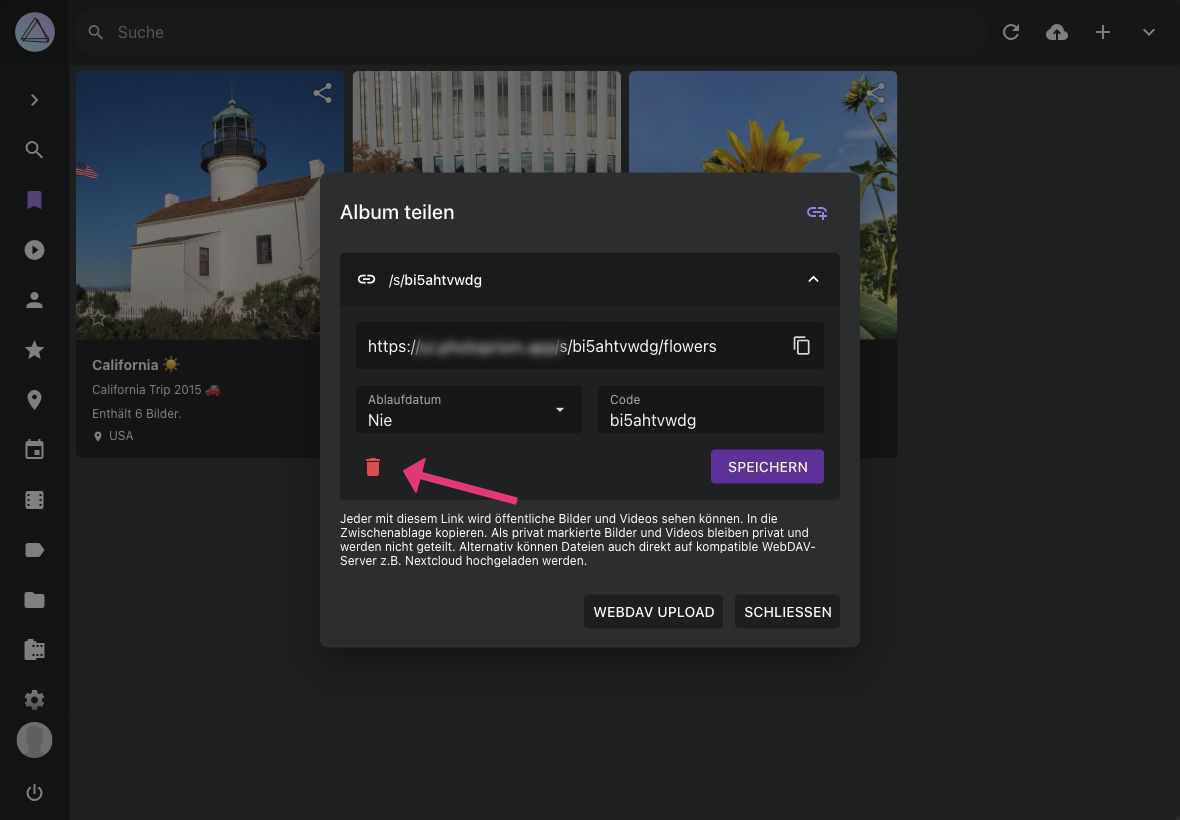
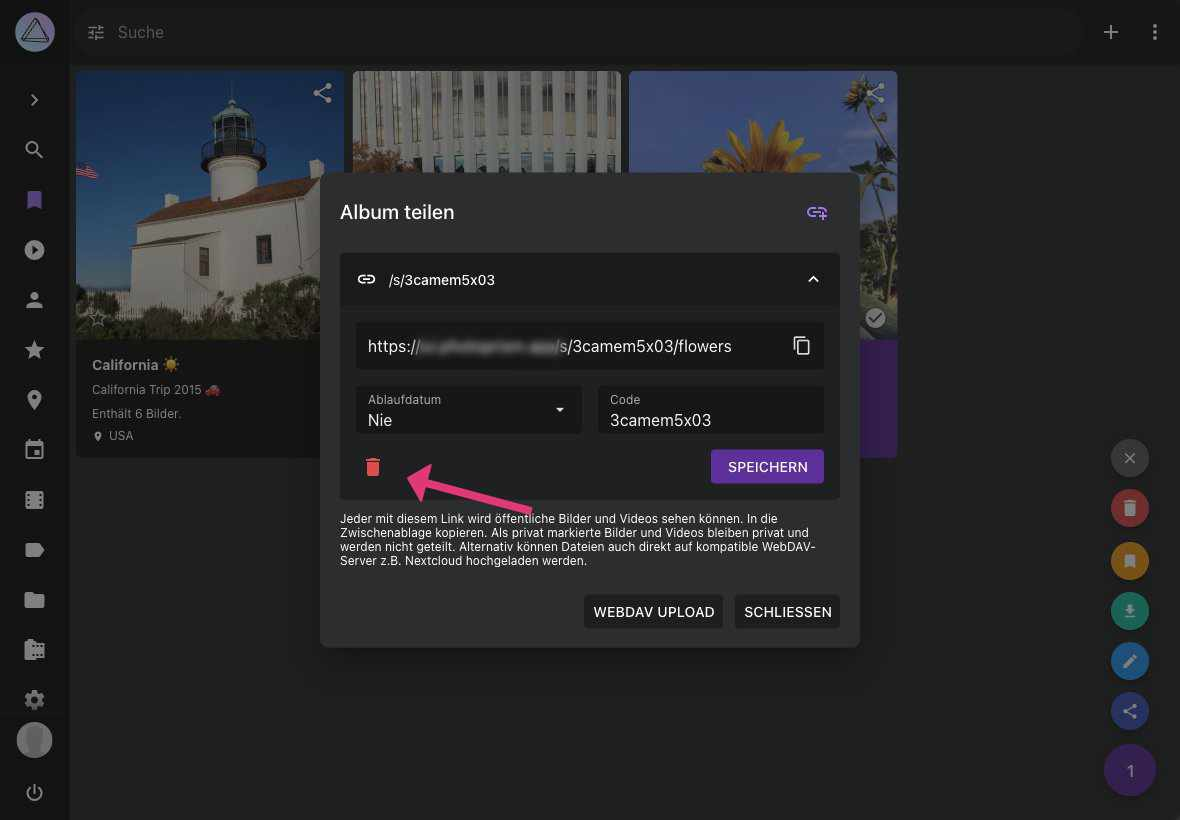
User Guide: Update screenshots in share.md

diff --git a/docs/user-guide/share/share.md b/docs/user-guide/share/share.md
@@ -25,7 +25,8 @@ Durch klicken auf :material-power: können Link-Besucher ihre Sitzung beenden.
 === "Album-Suchleiste"
      1. Gehe zu *Alben* / *Ereignisse* / *Kalender* / *Regionen* / *Ordner*
      2. Öffne das Album, das du teilen möchtest
-     3. Klicke :material-share-variant:
+     3. Klicke :material-dots-vertical:
+     4. Klicke :material-share-variant:
 
       ![Screenshot](img/share-toolbar-2503-german.jpg){ class="shadow" }
 
